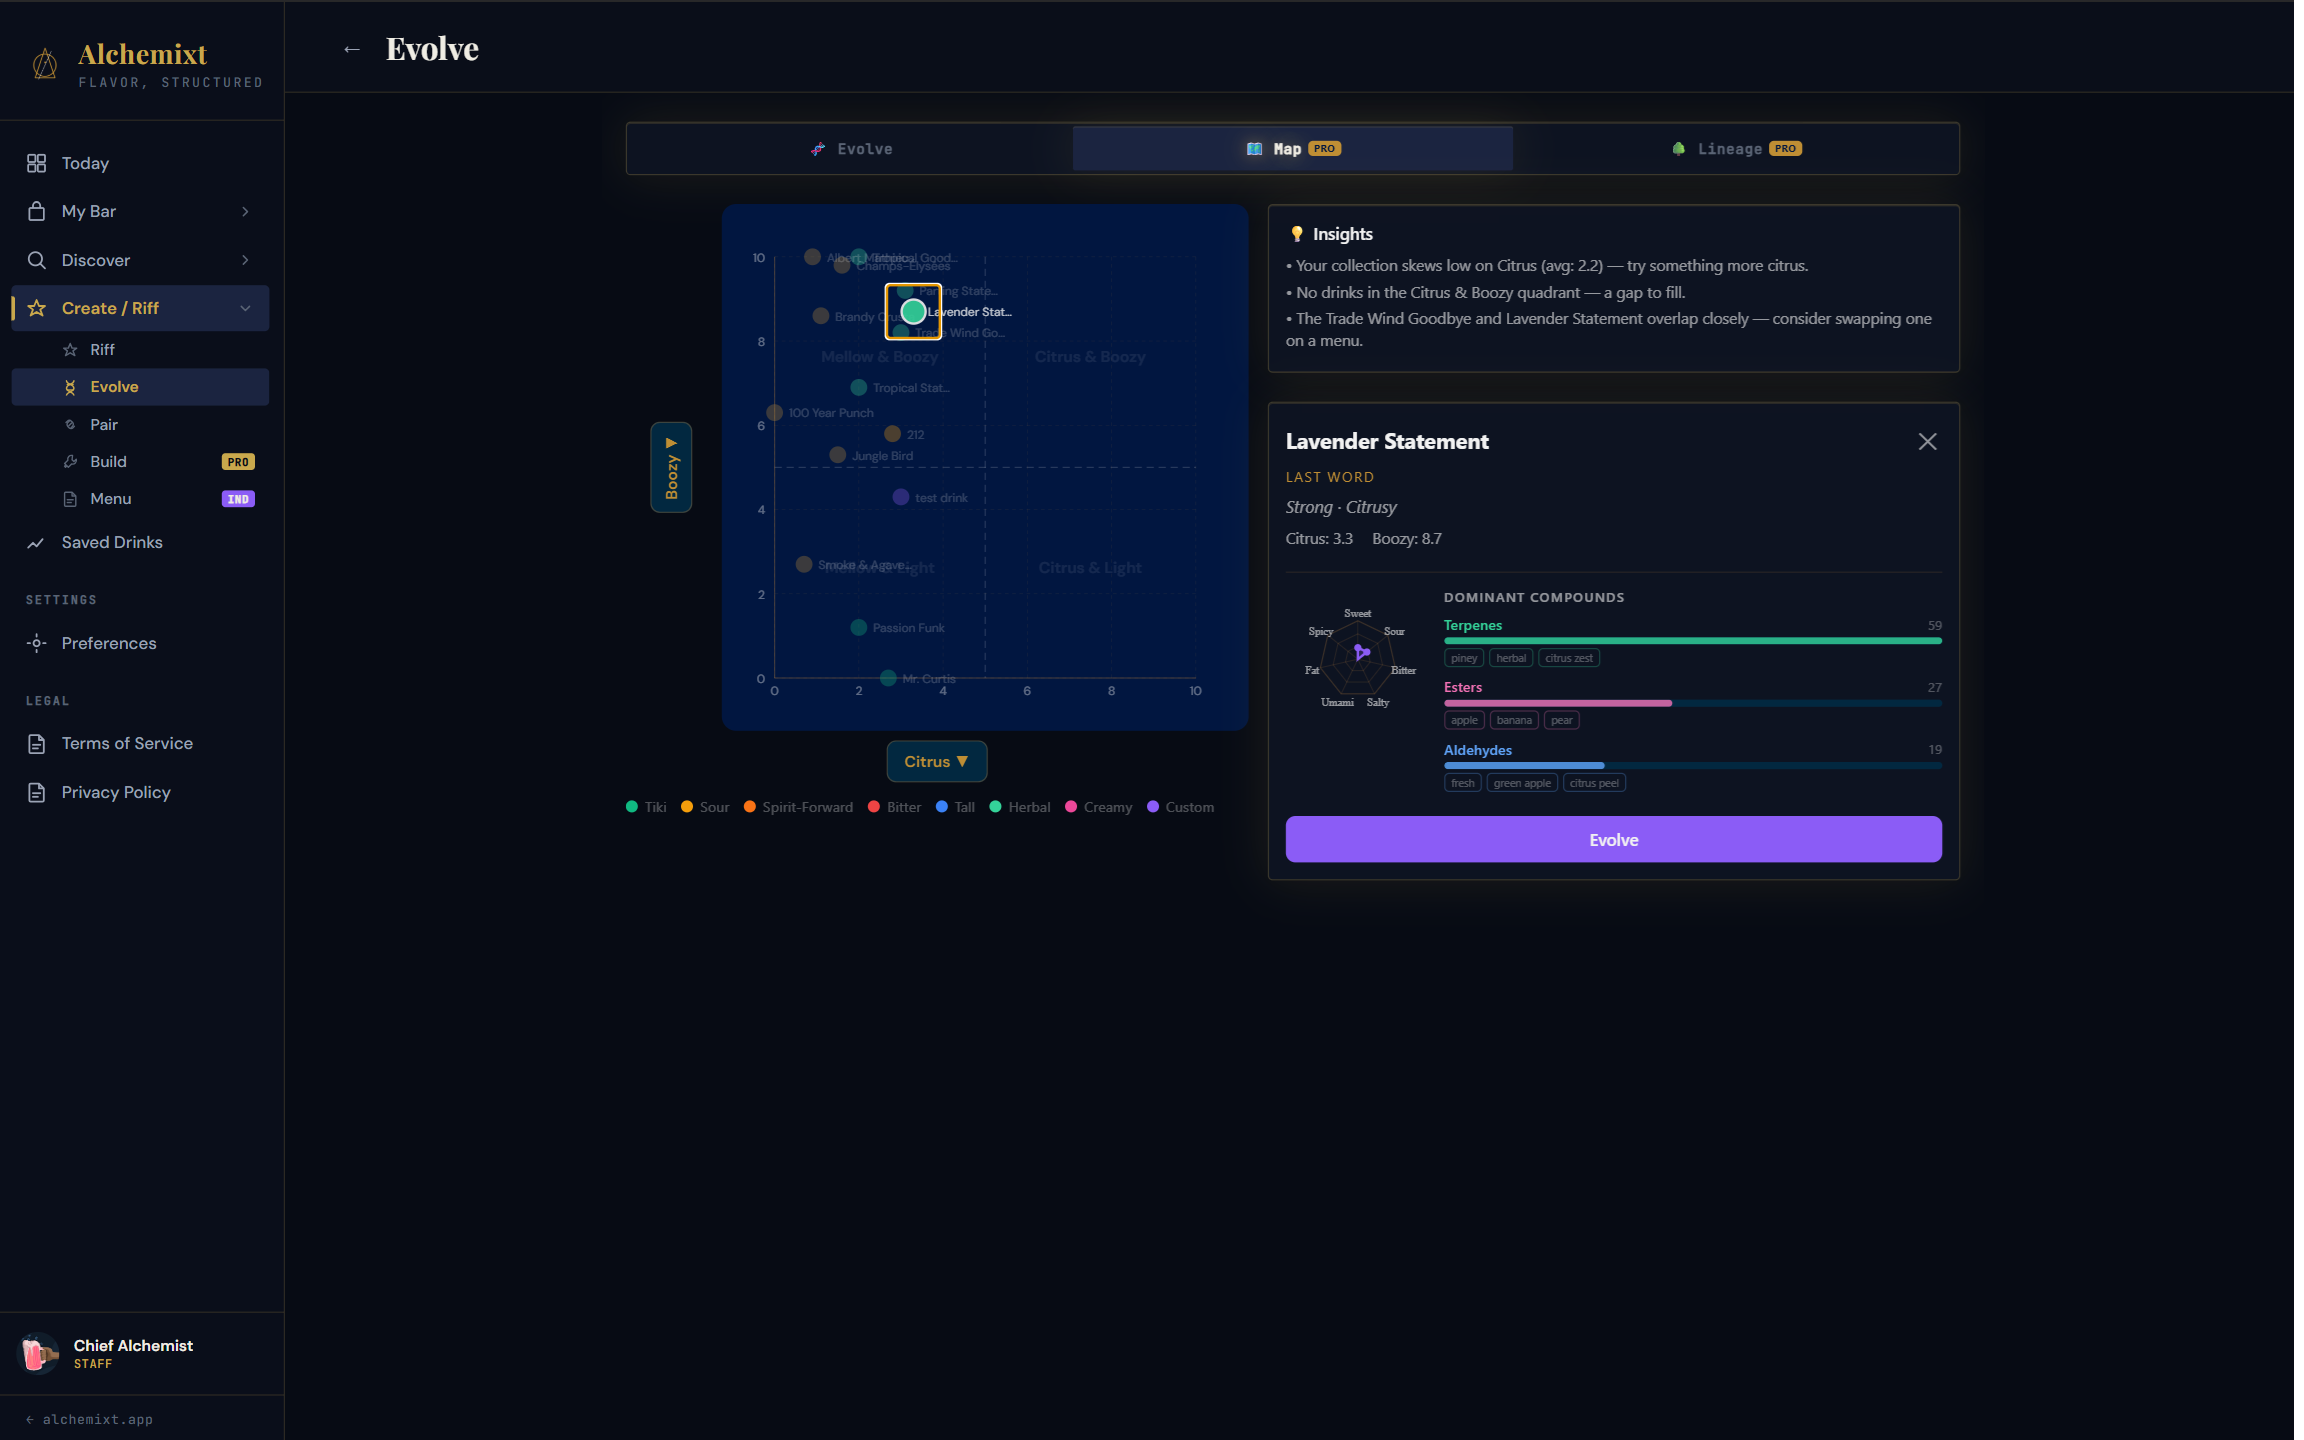
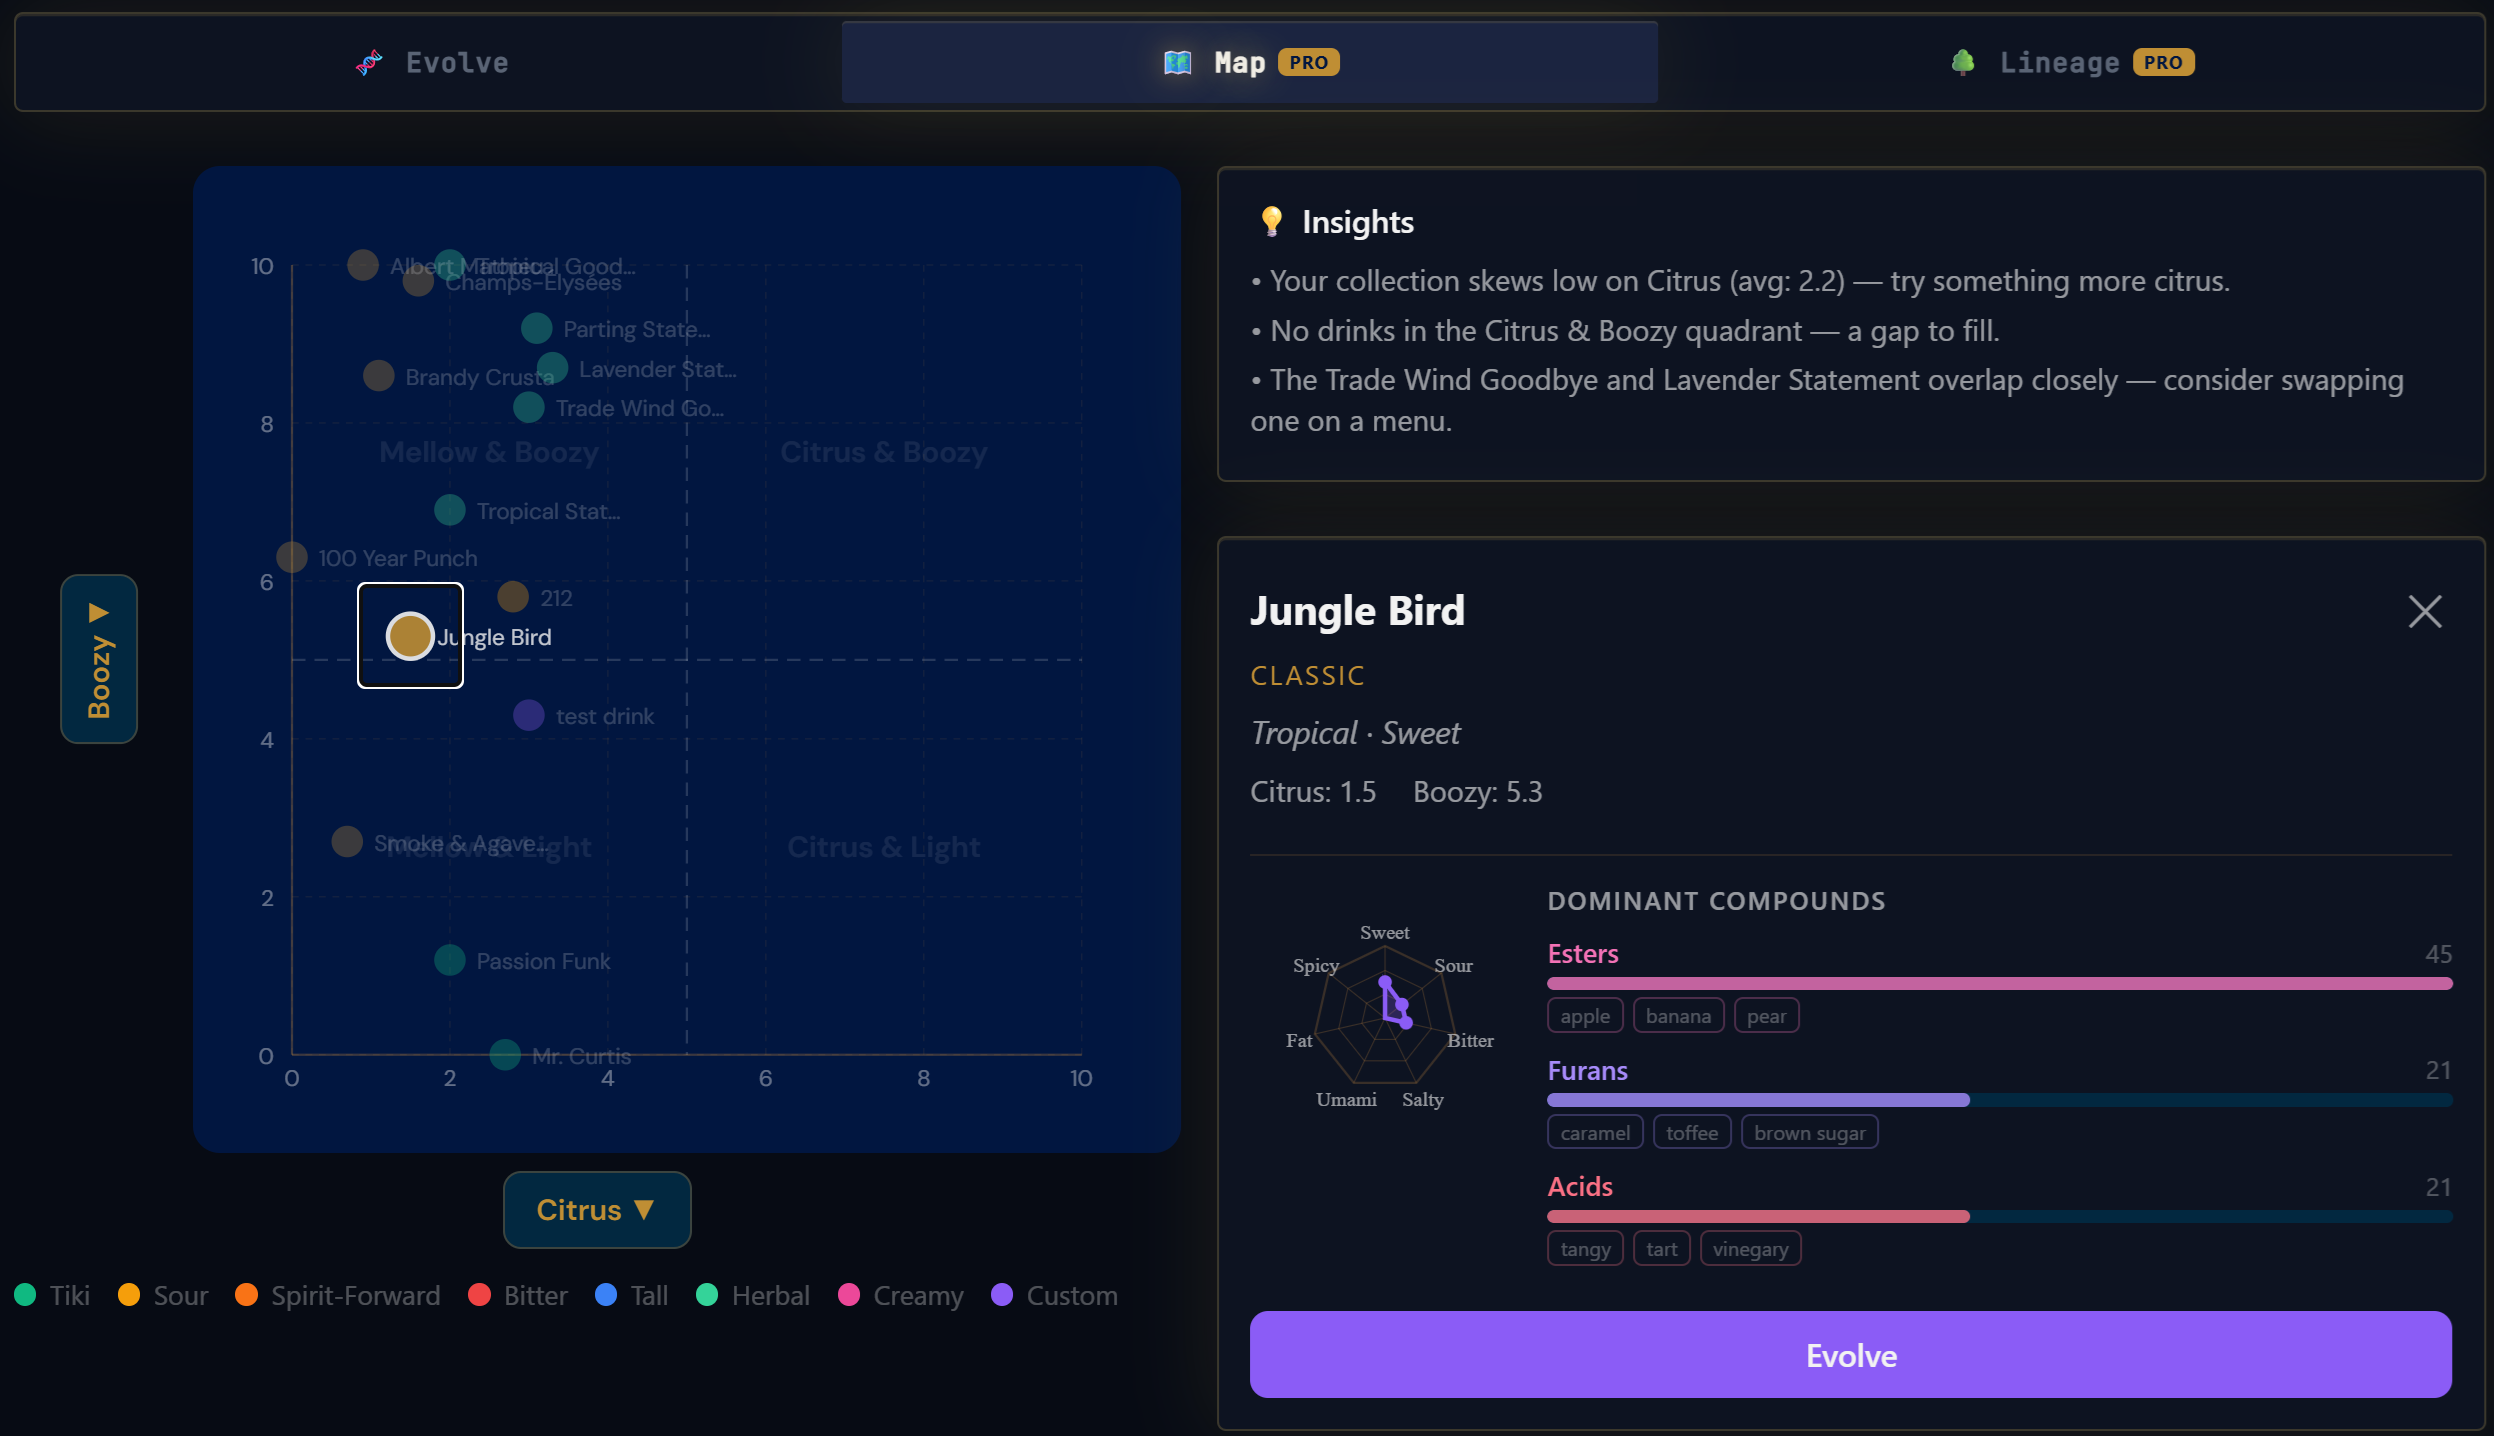
deploy: PointForgeLabs/alchemixt@fc7a229d47e4895149aae55299a772245fdcc03f

diff --git a/index.html b/index.html
@@ -55,6 +55,16 @@
         </p>
       </header>
     </div>
+
+    <figure class="hero-figure">
+      <img
+        src="/images/home/home-hero-flavormap.png"
+        alt="The Alchemixt Evolve engine showing the Flavor Map visualization with cocktail scatter plot, compound analysis, and drink detail for a Jungle Bird"
+        width="2494"
+        height="1436"
+        loading="eager"
+      />
+    </figure>
   </div>
 
   <!-- LIGHT: INTRO + DOORS -->
